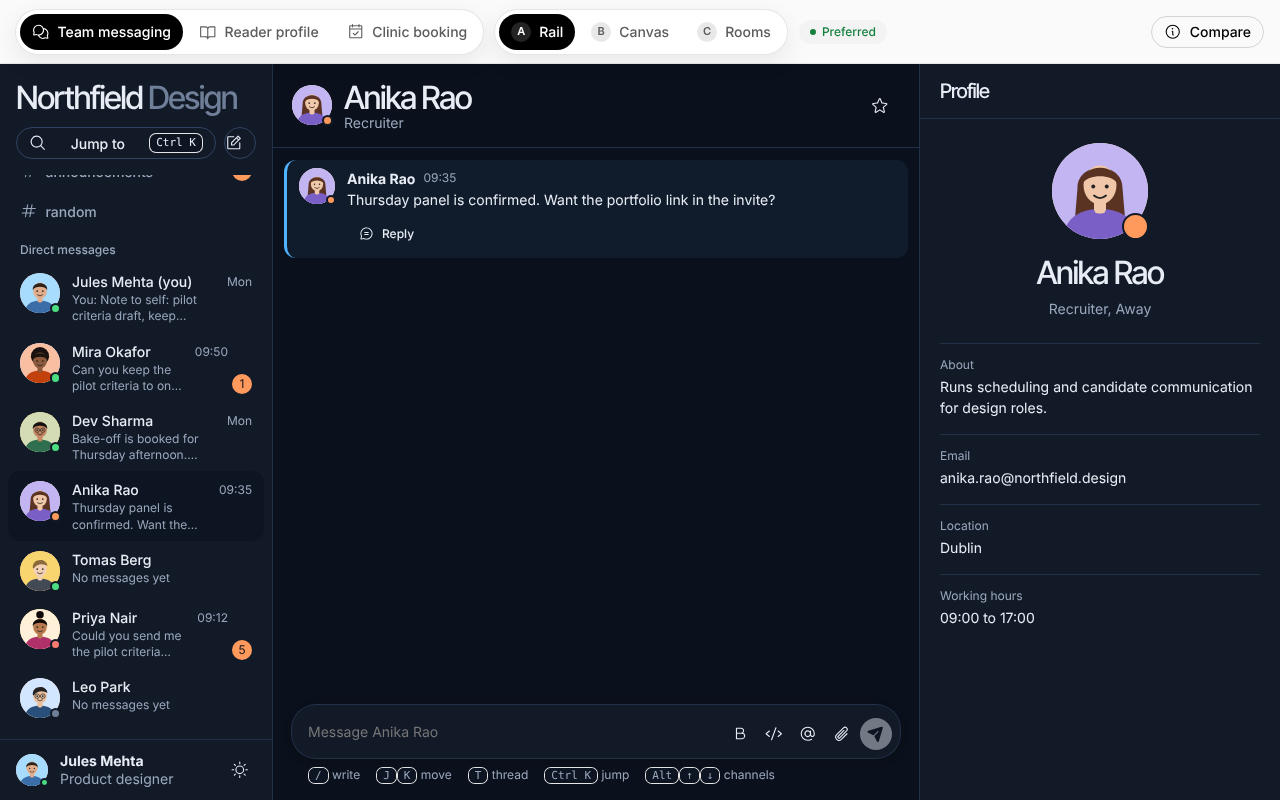
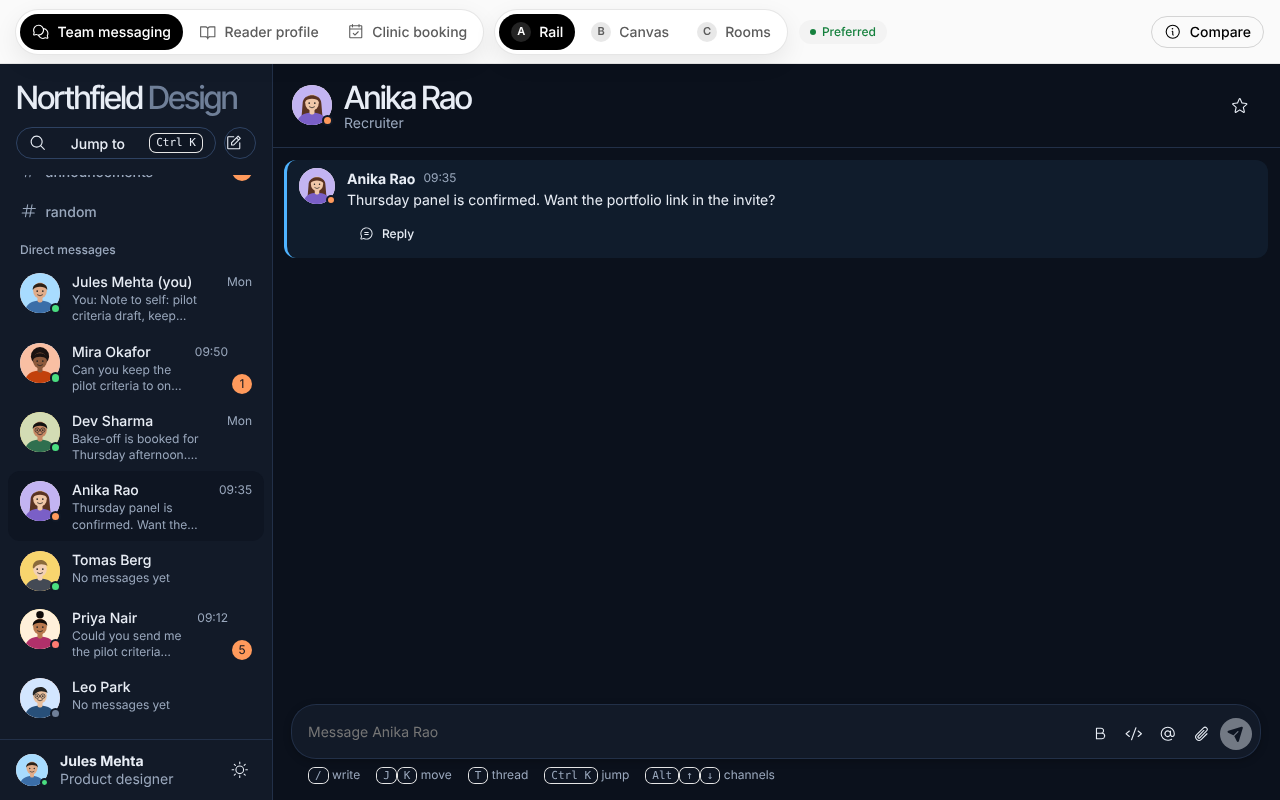
Rail: open the profile pane only on click in a DM
A DM now opens as chat only, with the person's avatar, name and role in the header.
Clicking the header opens the profile pane; a close button (or Escape) closes it.
Channels are unchanged.

Claude-Session: https://claude.ai/code/session_01P1Vf3VVqWDgdfqn6XWC4yx

diff --git a/src/products/messaging/RailConcept.tsx b/src/products/messaging/RailConcept.tsx
@@ -221,11 +221,13 @@ export default function RailConcept() {
     <ThreadPanel root={root} replies={threadFor(root.id)?.replies ?? []} onReply={(t, f) => reply(root.id, t, f)} />
   ) : null;
 
+  // In a DM the right pane stays closed until a thread or the person's profile is opened.
+  const showRight = wide && (!person || !!openRoot || profileOpen);
   const rightTitle = openRoot ? 'Thread' : person ? 'Profile' : 'Members';
   const rightBody = openRoot ? threadView : person ? profile : members;
 
   return (
-    <div className="rail" data-ds-theme={theme} data-wide={wide} data-mid={mid}>
+    <div className="rail" data-ds-theme={theme} data-wide={showRight} data-mid={mid}>
       {mid && <aside className="rail__channels" aria-label="Channels">{channelPane}</aside>}
 
       <main className="rail__main">
@@ -234,7 +236,7 @@ export default function RailConcept() {
           <div className="rail__title">
             {person ? (
               <h1>
-                <button type="button" className="rail__who" aria-pressed={profileOpen || !openRoot} onClick={() => { openThread(null); setProfileOpen(true); }}>
+                <button type="button" className="rail__who" aria-pressed={profileOpen && !openRoot} onClick={() => { const wasThread = !!openRoot; openThread(null); setProfileOpen((o) => wasThread || !o); }}>
                   <PersonAvatar name={person.name} size={40} status={person.status} />
                   <span><span className="rail__who-name">{channel.name}</span><span className="rail__who-role">{person.role}</span></span>
                 </button>
@@ -288,11 +290,11 @@ export default function RailConcept() {
         </div>
       </main>
 
-      {wide && (
+      {showRight && (
         <aside className="rail__right" aria-label={rightTitle}>
           <div className="rail__right-head">
             <h2>{rightTitle}</h2>
-            {openRoot && <Button variant="ghost" size="sm" iconOnly aria-label="Close thread" icon={<X size="1.25em" />} onClick={() => openThread(null)} />}
+            {(openRoot || person) && <Button variant="ghost" size="sm" iconOnly aria-label={openRoot ? 'Close thread' : 'Close profile'} icon={<X size="1.25em" />} onClick={() => (openRoot ? openThread(null) : setProfileOpen(false))} />}
           </div>
           <div className="rail__right-body">{rightBody}</div>
         </aside>

diff --git a/tests/e2e/messaging.py b/tests/e2e/messaging.py
@@ -48,7 +48,11 @@ with sync_playwright() as p:
     ok('rail DM send', pg.get_by_role('log').get_by_text('Yes please').count()==1)
     ok('rail DM preview shows last message', side.get_by_text('You: Yes please').count()==1)
     ok('rail DM header shows profile picture and role', pg.locator('h1 .ds-avatar img').count()==1 and 'Recruiter' in pg.locator('h1').inner_text())
-    ok('rail DM profile pane shows details', pg.get_by_role('heading',name='Profile').is_visible() and pg.get_by_text('anika.rao@northfield.design').is_visible())
+    ok('rail DM default: chat only, no side pane', pg.get_by_role('heading',name='Profile').count()==0 and pg.get_by_text('anika.rao@northfield.design').count()==0)
+    pg.locator('h1 button').click()
+    ok('rail DM header click opens profile', pg.get_by_role('heading',name='Profile').is_visible() and pg.get_by_text('anika.rao@northfield.design').is_visible())
+    pg.get_by_role('button',name='Close profile').click()
+    ok('rail DM profile closes', pg.get_by_role('heading',name='Profile').count()==0)
     ok('rail top bar has no concept description', pg.locator('.shell__idea').count()==0)
     side.get_by_role('button',name='Mira Okafor').first.click()
     ok('rail DM from sidebar', 'Mira Okafor' in pg.locator('h1').inner_text())
